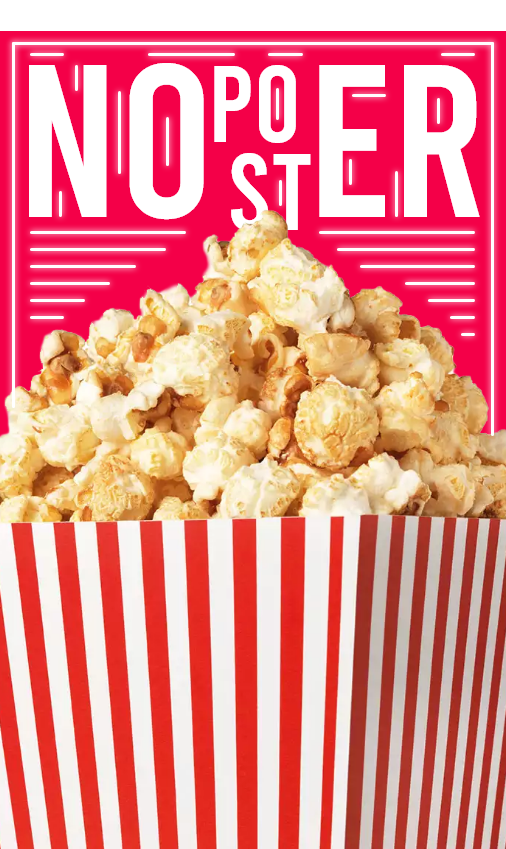
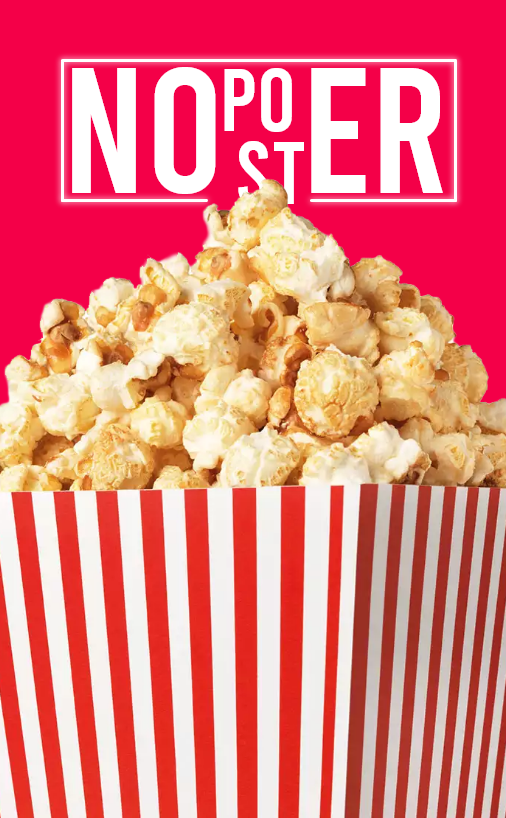
popup start

diff --git a/src/components/PopUp.vue b/src/components/PopUp.vue
@@ -1,0 +1,210 @@
+<template>
+  <div v-on:click="close" class="popup js-close" v-bind:class="this.PopUpClass">
+    <div class="popup__content">
+      <button class="popup__btn js-close"></button>
+      <div class="popup__left-col">
+        <div class="rating">
+          <div class="rating__left-col">
+            <div class="rating__stars">
+              <img
+                v-for="star in stars"
+                :key="star.id"
+                class="rating__star"
+                alt="star"
+                v-bind:src="star"
+              />
+            </div>
+            <span class="rating__votes">Votes: {{filmData.imdbVotes}}</span>
+          </div>
+        </div>
+        <div class="poster">
+          <img class="poster__image" v-if="filmData.Poster != 'N/A'" :src="filmData.Poster" />
+          <img class="poster__image" v-if="filmData.Poster == 'N/A'" src="../assets/poster.png" />
+        </div>
+      </div>
+      <h1>{{filmData.Title}}</h1>
+    </div>
+  </div>
+</template>
+
+<script>
+import axios from "axios";
+export default {
+  name: "PopUp",
+  props: {
+    PopUpClass: String,
+    filmID: String
+  },
+  data() {
+    return {
+      filmData: [],
+      stars: []
+    };
+  },
+  watch: {
+    filmID: function() {
+      axios
+        .get(`https://www.omdbapi.com/?apikey=81a9086&i=${this.filmID}`)
+        .then(response => {
+          this.filmData = response.data;
+          this.filmData.Poster = this.filmData.Poster.replace("300", "1000");
+          let rating = parseFloat(this.filmData.imdbRating);
+          for (let i = 0; i < 10; i++) {
+            if (rating > 1) {
+              rating = rating - 1;
+              this.stars[i] = require("../assets/star10-10.svg");
+            } else if (rating > 0) {
+              this.stars[i] = require(`../assets/star${Math.round(
+                rating * 10
+              )}-10.svg`);
+              rating = 0;
+            } else {
+              this.stars[i] = require("../assets/star0-10.svg");
+            }
+          }
+        })
+        .catch(error => {
+          console.log(error);
+        });
+    }
+  },
+  methods: {
+    close(event) {
+      event.stopPropagation();
+      if (event.target.matches(".js-close")) {
+        this.class = "hide";
+        this.$emit("clicked", "hide");
+      }
+    }
+  }
+};
+</script>
+
+<style lang="scss" scoped>
+.popup {
+  position: fixed;
+  background: rgba(9, 3, 49, 0.9);
+  width: 100%;
+  height: 100%;
+
+  &.hide {
+    visibility: hidden;
+    z-index: -1000;
+
+    & .popup__content {
+      transform: translate(-50%, -45%);
+      opacity: 0;
+    }
+  }
+
+  &.show {
+    visibility: visible;
+    z-index: 1000;
+
+    & .popup__content {
+      transition: transform 0.7s, opacity 0.7s;
+      transform: translate(-50%, -50%);
+      opacity: 1;
+    }
+  }
+
+  &__content {
+    position: absolute;
+    display: flex;
+    left: 50%;
+    top: 50%;
+    width: 75%;
+    height: 90%;
+    background: #090331;
+    border-radius: 1.7rem;
+    box-shadow: 0px 0px 4rem #ffffff66;
+    will-change: opacity, transform;
+    overflow: auto;
+  }
+
+  &__btn {
+    position: absolute;
+    top: 4rem;
+    right: 4rem;
+    background: transparent;
+    width: 3rem;
+    height: 3rem;
+    border: none;
+    cursor: pointer;
+
+    &:hover::after {
+      transform: translate(-50%, -50%) rotate(225deg);
+    }
+
+    &:hover::before {
+      transform: translate(-50%, -50%) rotate(-225deg);
+    }
+
+    @mixin after {
+      position: absolute;
+      height: 2rem;
+      width: 0.2rem;
+      background: white;
+      top: 50%;
+      left: 50%;
+      will-change: transform;
+      transition: transform 0.5s;
+    }
+
+    &::after {
+      content: "";
+      @include after();
+      transform: translate(-50%, -50%) rotate(-45deg);
+    }
+
+    &::before {
+      content: "";
+      @include after();
+      transform: translate(-50%, -50%) rotate(45deg);
+    }
+  }
+
+  &__left-col {
+    position: relative;
+    display: flex;
+    flex-direction: column;
+    justify-content: flex-end;
+    width: 32%;
+  }
+}
+
+.rating {
+  position: absolute;
+  display: flex;
+  height: 16.3rem;
+  width: 100%;
+  padding: 0 3.5rem;
+  top: 0;
+  left: 0;
+  background: #f40048;
+  border-radius: 1.7rem;
+
+  &__votes {
+    font-family: "Montserrat", sans-serif;
+    font-size: 2.2rem;
+  }
+
+  &__star {
+    width: 2.3rem;
+    height: 2.3rem;
+    margin: 0 0.2rem;
+  }
+}
+
+.poster {
+  width: 100%;
+  height: calc(100% - 15rem);
+  line-height: 0;
+
+  &__image {
+    width: 100%;
+    height: 100%;
+    object-fit: cover;
+  }
+}
+</style>

diff --git a/src/components/Search.vue b/src/components/Search.vue
@@ -1,5 +1,7 @@
 <template>
   <div>
+    <PopUp @clicked="handlePopUp" v-bind:PopUpClass="PopUpClass" v-bind:filmID="filmID" />
+    <router-link class="home-link" to="/">home</router-link>
     <section class="options">
       <form form v-on:submit.prevent="getNewMovies" class="options__row">
         <div class="filters">
@@ -34,7 +36,13 @@
     </section>
     <ul class="films">
       <template v-for="list in films">
-        <li class="films__film" v-for="film in list" :key="film.imdbID">
+        <li
+          class="films__film"
+          v-for="film in list"
+          :key="film.imdbID"
+          v-on:click="handleFilm"
+          :data-id="film.imdbID"
+        >
           <div class="films__info">
             <span class="films__year">{{ film.Year }}</span>
             <span class="films__type" v-bind:class="film.Type">{{ film.Type }}</span>
@@ -54,23 +62,18 @@
 
 <script>
 import axios from "axios";
+import PopUp from "./PopUp.vue";
 
 export default {
   name: "Search",
-  created() {
-    let hash = window.location.hash.substring(1);
-    if (hash) {
-      hash = hash.split("&");
-      this.filmName = decodeURI(hash[0]);
-      this.filmYear = hash[1];
-      this.filmType = hash[2];
-    }
-    this.getMovies();
-    window.addEventListener("scroll", this.handleScroll);
+  components: {
+    PopUp
   },
 
   data() {
     return {
+      PopUpClass: "hide",
+      filmID: "",
       cooldownAjax: false,
       films: [],
       results: 0,
@@ -82,7 +85,34 @@ export default {
     };
   },
 
+  created() {
+    let hash = window.location.hash.substring(1);
+    if (hash) {
+      hash = hash.split("&");
+      this.filmName = decodeURI(hash[0]);
+      this.filmYear = hash[1];
+      this.filmType = hash[2];
+      if (hash[3]) {
+        setTimeout(() => {
+          this.PopUpClass = "show";
+          this.filmID = hash[3];
+        }, 50);
+      }
+    }
+    this.getMovies();
+    window.addEventListener("scroll", this.handleScroll);
+  },
+
   methods: {
+    handlePopUp(value) {
+      this.PopUpClass = value;
+      window.location.hash = `${this.filmName}&${this.filmYear}&${this.filmType}&`;
+    },
+    handleFilm(event) {
+      this.PopUpClass = "show";
+      this.filmID = event.target.closest(".films__film").dataset.id;
+      window.location.hash = `${this.filmName}&${this.filmYear}&${this.filmType}&${this.filmID}`;
+    },
     getNewMovies() {
       this.films = [];
       this.pages = 0;
@@ -118,7 +148,11 @@ export default {
                 this.results = 0;
               }
             }
-            window.location.hash = `${this.filmName}&${this.filmYear}&${this.filmType}`;
+            if (this.filmID == "") {
+              window.location.hash = `${this.filmName}&${this.filmYear}&${this.filmType}&`;
+            } else {
+              window.location.hash = `${this.filmName}&${this.filmYear}&${this.filmType}&${this.filmID}`;
+            }
           })
           .catch(error => {
             console.log(error);
@@ -135,6 +169,35 @@ export default {
 
 
 <style lang="scss" scoped>
+.home-link {
+  position: absolute;
+  top: 5.6rem;
+  left: 0;
+  font-family: "Montserrat", sans-serif;
+  font-size: 2.2rem;
+  line-height: 5.6rem;
+  font-weight: 500;
+  background: #f40048;
+  height: 5.3rem;
+  color: white;
+  padding: 0 7rem 0 2rem;
+  border-top-right-radius: 2.7rem;
+  border-bottom-right-radius: 2.7rem;
+  text-transform: uppercase;
+  z-index: 10;
+  background-image: url("../assets/home-icon.svg");
+  background-repeat: no-repeat;
+  background-position: calc(100% - 2rem);
+  background-size: 2rem;
+  will-change: transition;
+  transition: 0.3s;
+  transform: translate(-11rem);
+
+  &:hover {
+    transform: translate(0);
+    box-shadow: 0px 0px 30px #f40048;
+  }
+}
 .input {
   -webkit-appearance: none;
   background: transparent;

diff --git a/src/components/Header.vue b/src/components/Header.vue
@@ -17,7 +17,7 @@
         </h1>
         <form class="search-bar" v-on:submit.prevent="changeLocation">
           <input type="text" v-model="filmName" class="search-bar__input" />
-          <button class="search-bar__btn btn" to="/search">Search</button>
+          <button class="search-bar__btn btn">Search</button>
         </form>
       </div>
     </div>
@@ -37,7 +37,7 @@ export default {
   methods: {
     changeLocation() {
       if (this.filmName != "") {
-        window.location = `./search#${this.filmName}&&`;
+        window.location = `./search#${this.filmName}&&&`;
       } else {
         window.location = `./search`;
       }
